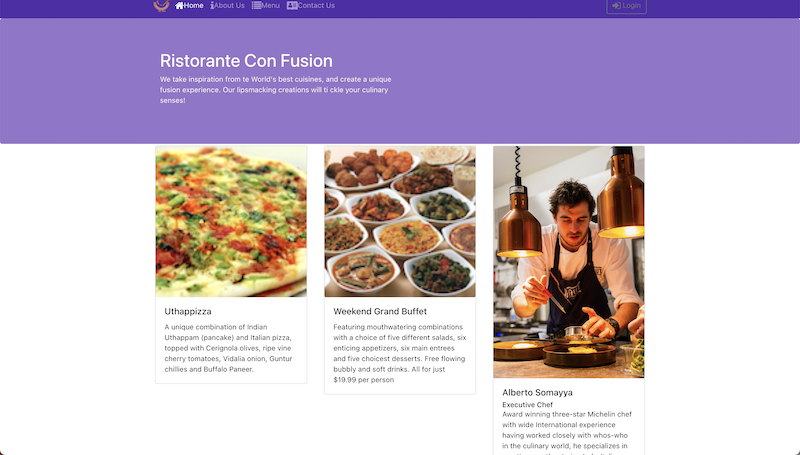
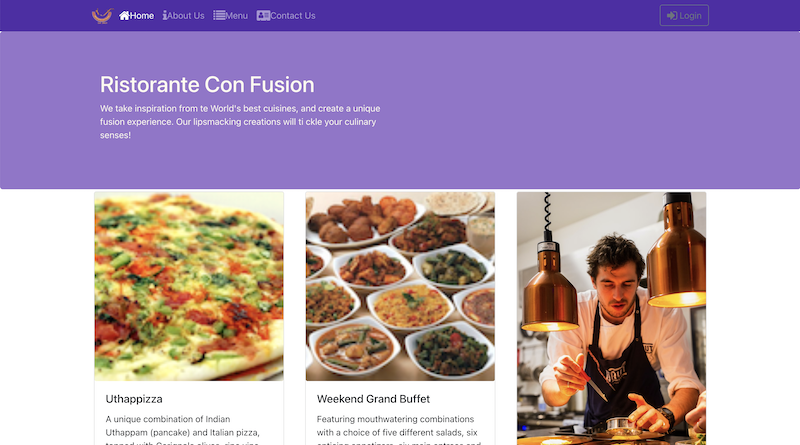
minor changes

diff --git a/src/Components/ProjectItems.js b/src/Components/ProjectItems.js
@@ -20,11 +20,11 @@ const useStyles = makeStyles((theme) => ({
         overflow:"hidden",
     },
     projectimg:{
-        boxShadow: "0px 4px 4px rgb(0,128,128)",
+        boxShadow: "0 2px 2px gray",
         width:"800px",
         '&:hover': {
-            transform: "scale(1.2)",
-            WebkitTransition: "transform .5s ease-in-out"
+            transform: "scale(1.1)",
+            WebkitTransition: "transform 1s ease-in-out"
         },
     },
     project_description:{
@@ -41,7 +41,7 @@ const useStyles = makeStyles((theme) => ({
     },
     link_a:{
         color: "teal",
-        border: "2px solid teal",
+        border: "1px solid teal",
         marginRight: "20px",
         fontSize:"14px",
         padding: "5px",
@@ -55,7 +55,7 @@ const useStyles = makeStyles((theme) => ({
     },
     link_b:{
         color: "white",
-        border: "2px solid teal",
+        border: "1px solid teal",
         marginRight: "20px",
         fontSize:"14px",
         padding: "5px",
